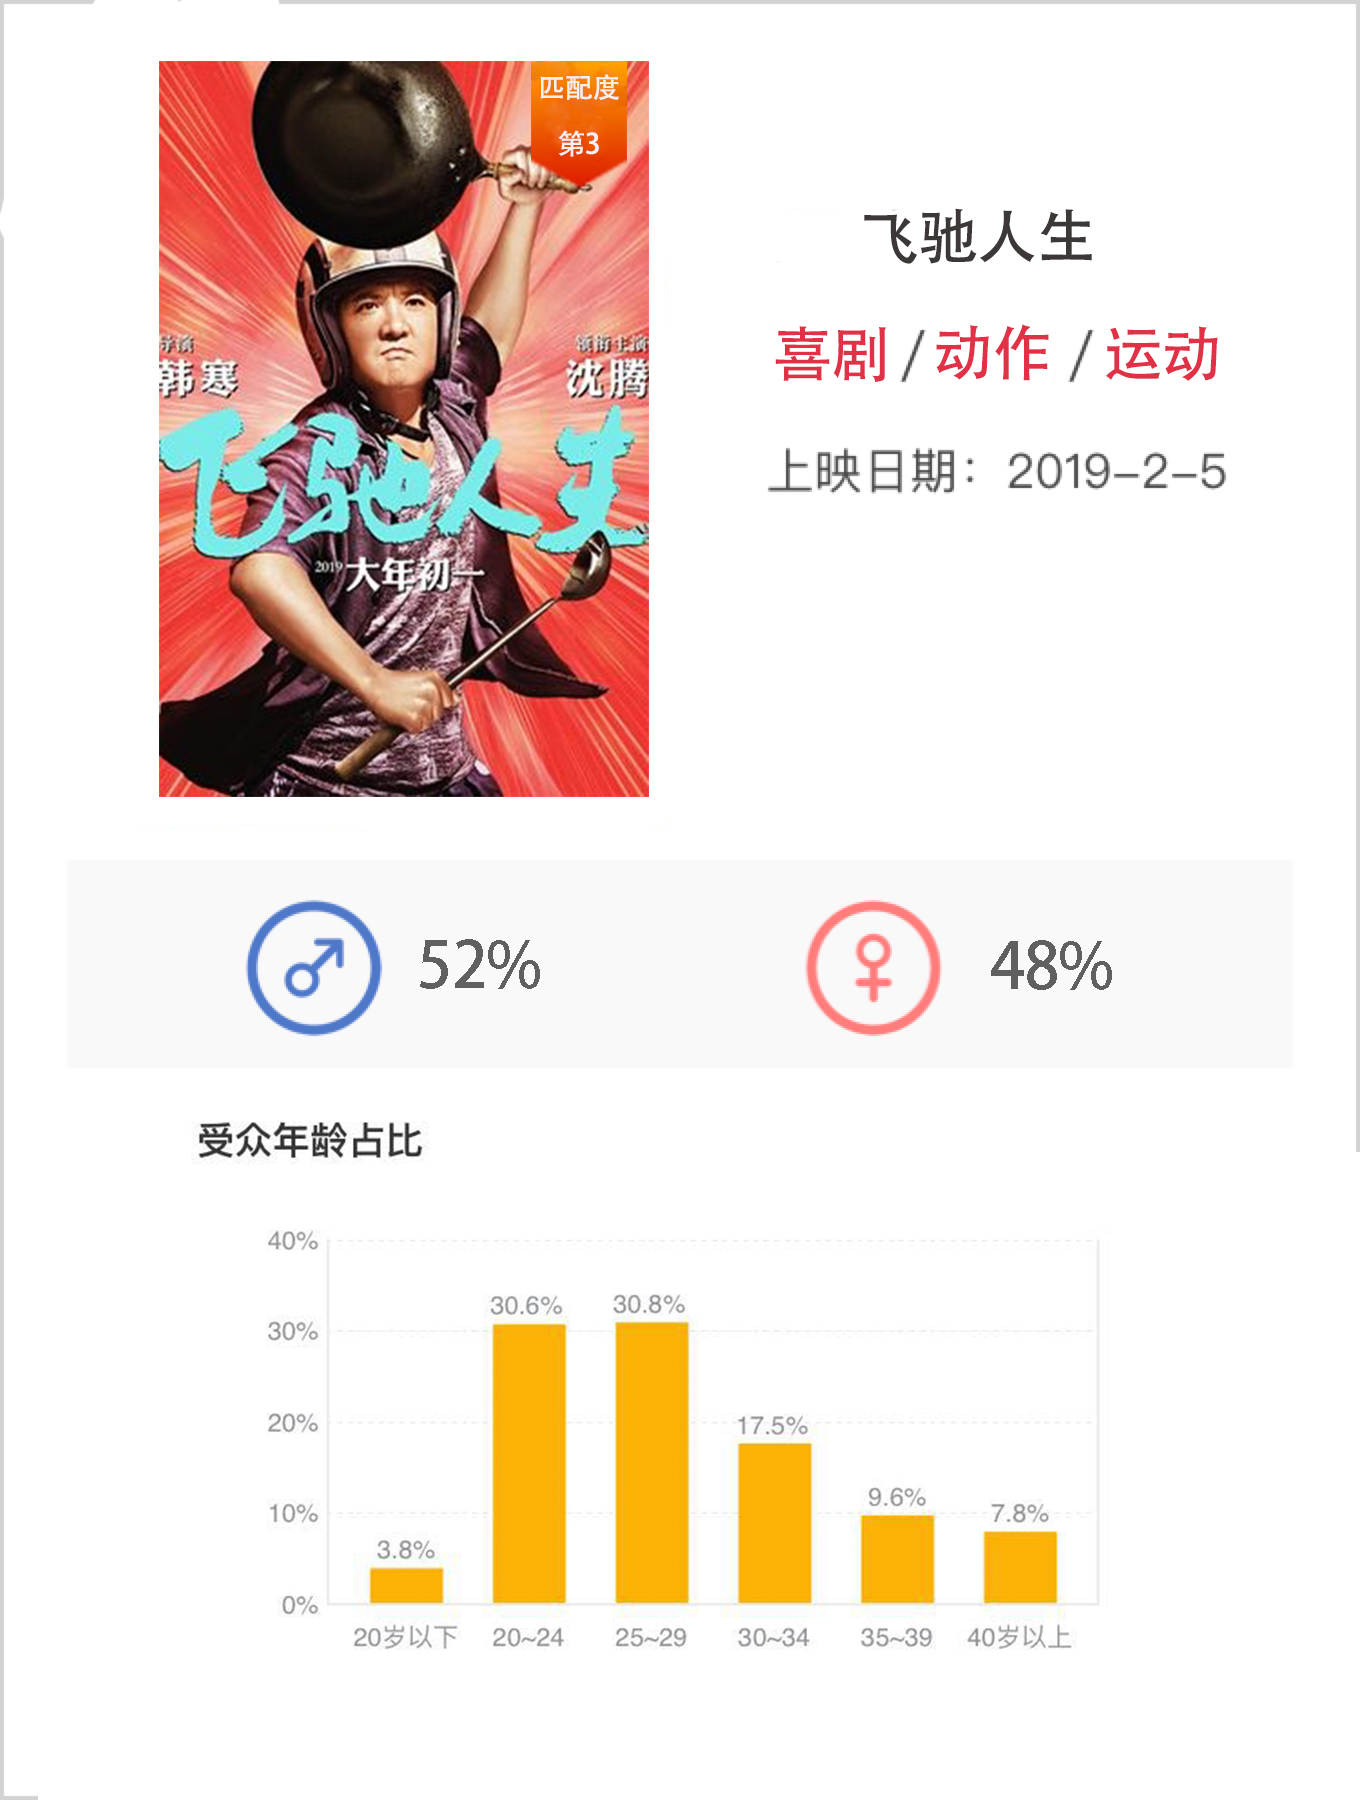
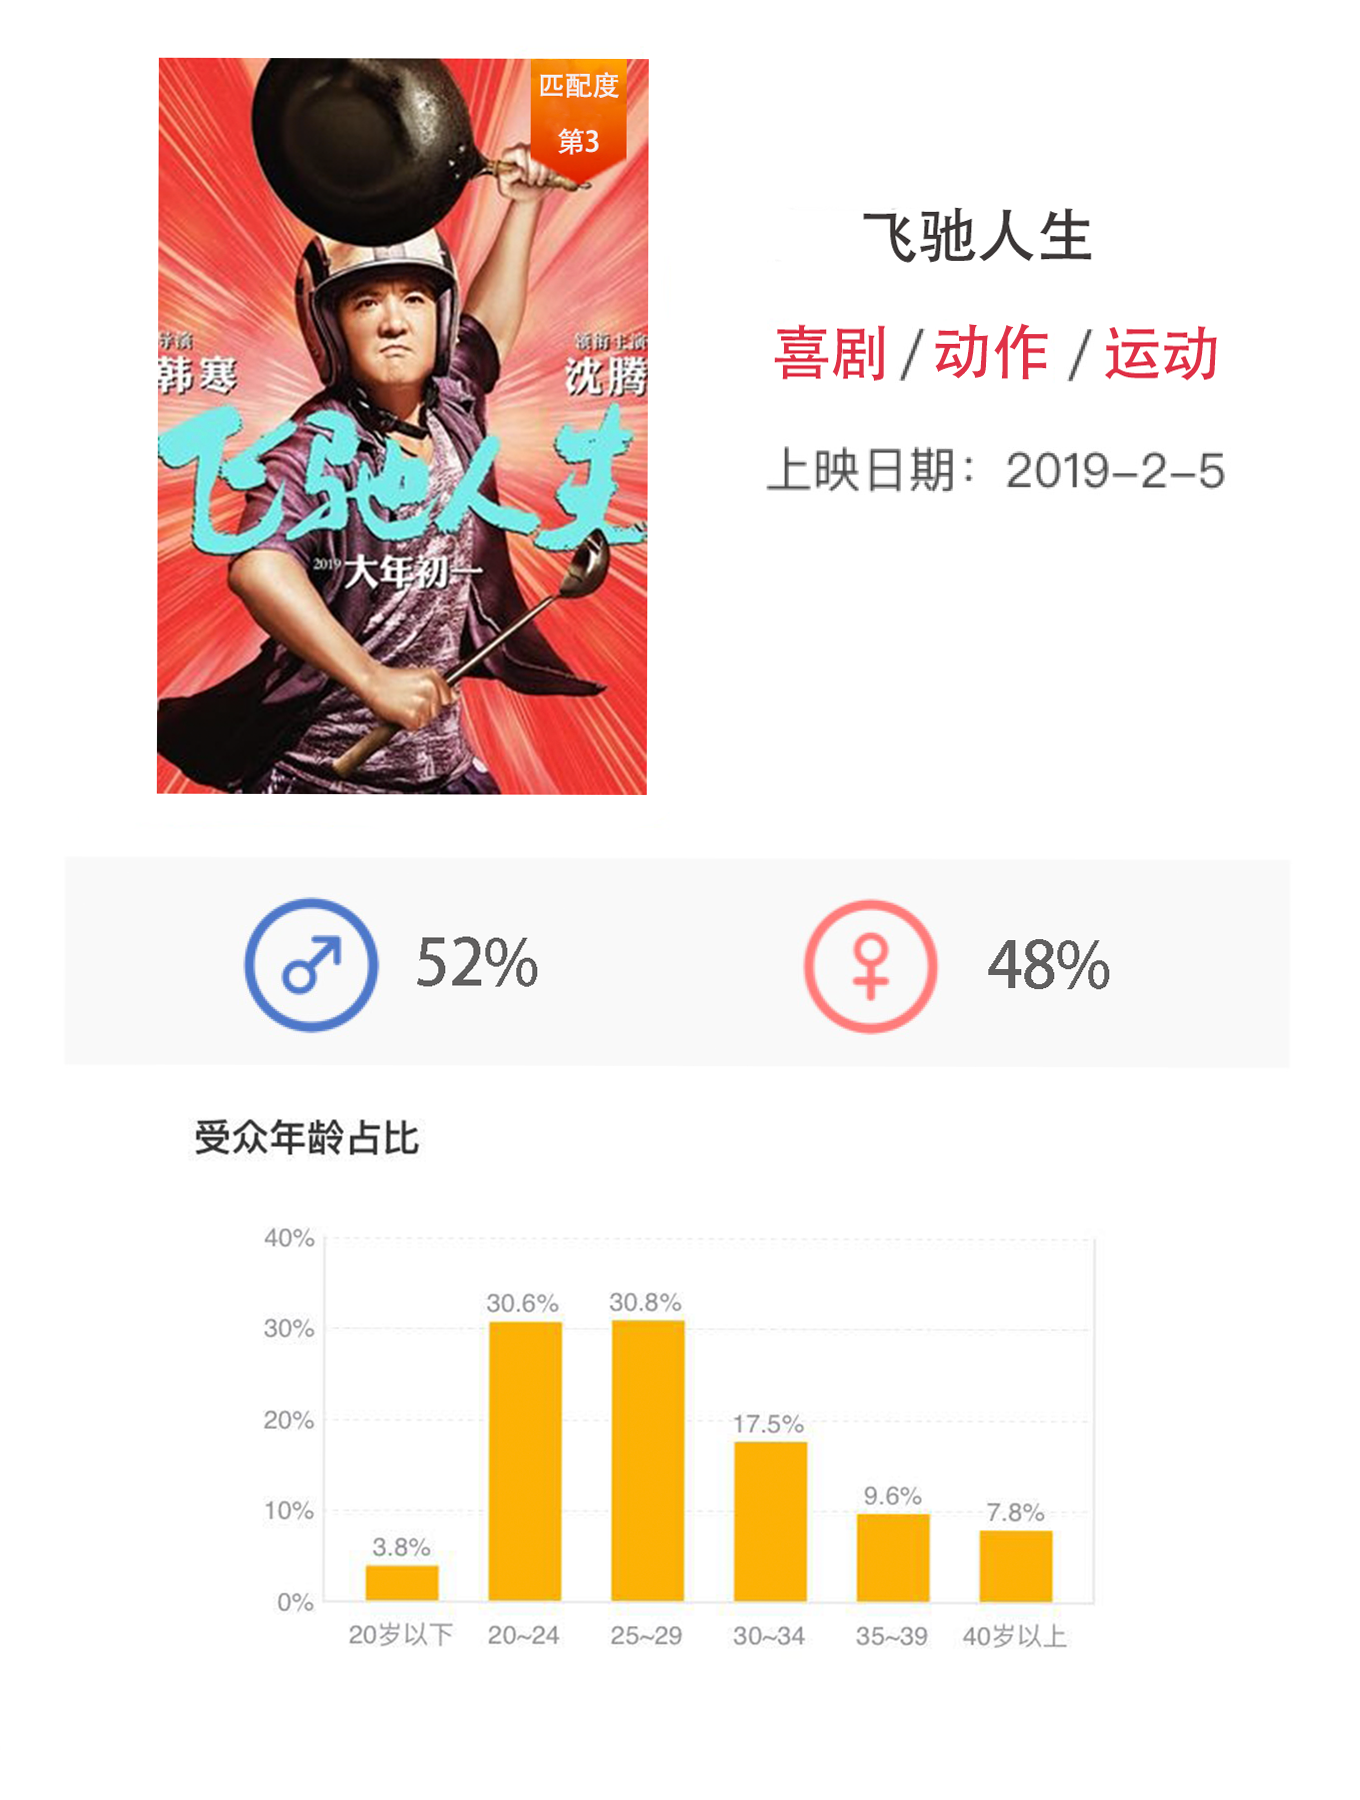
图片替换

diff --git a/src/views/pop/pages/index.vue b/src/views/pop/pages/index.vue
@@ -481,7 +481,7 @@ export default class Main extends ViewBase {
     }
     .cinema-img {
       img {
-        width: 95%;
+        width: 100%;
       }
     }
     .poster-title {
